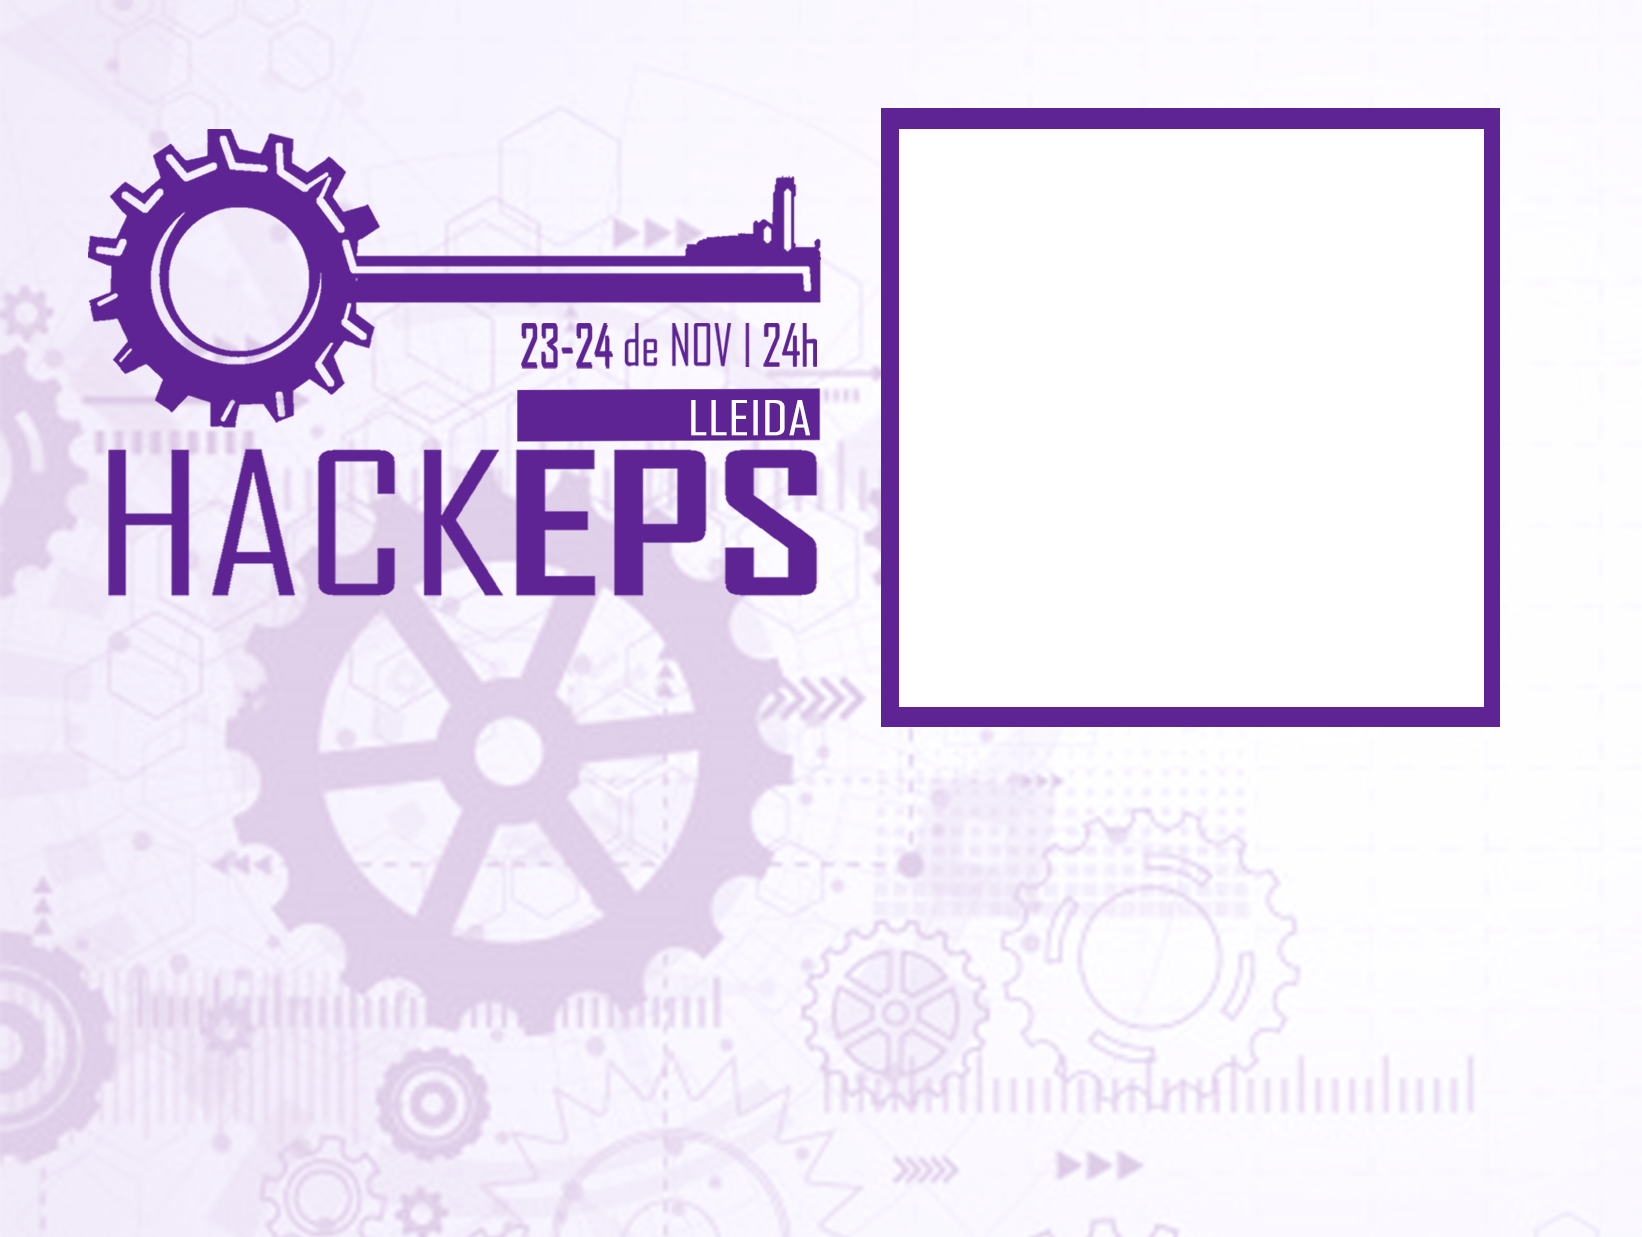
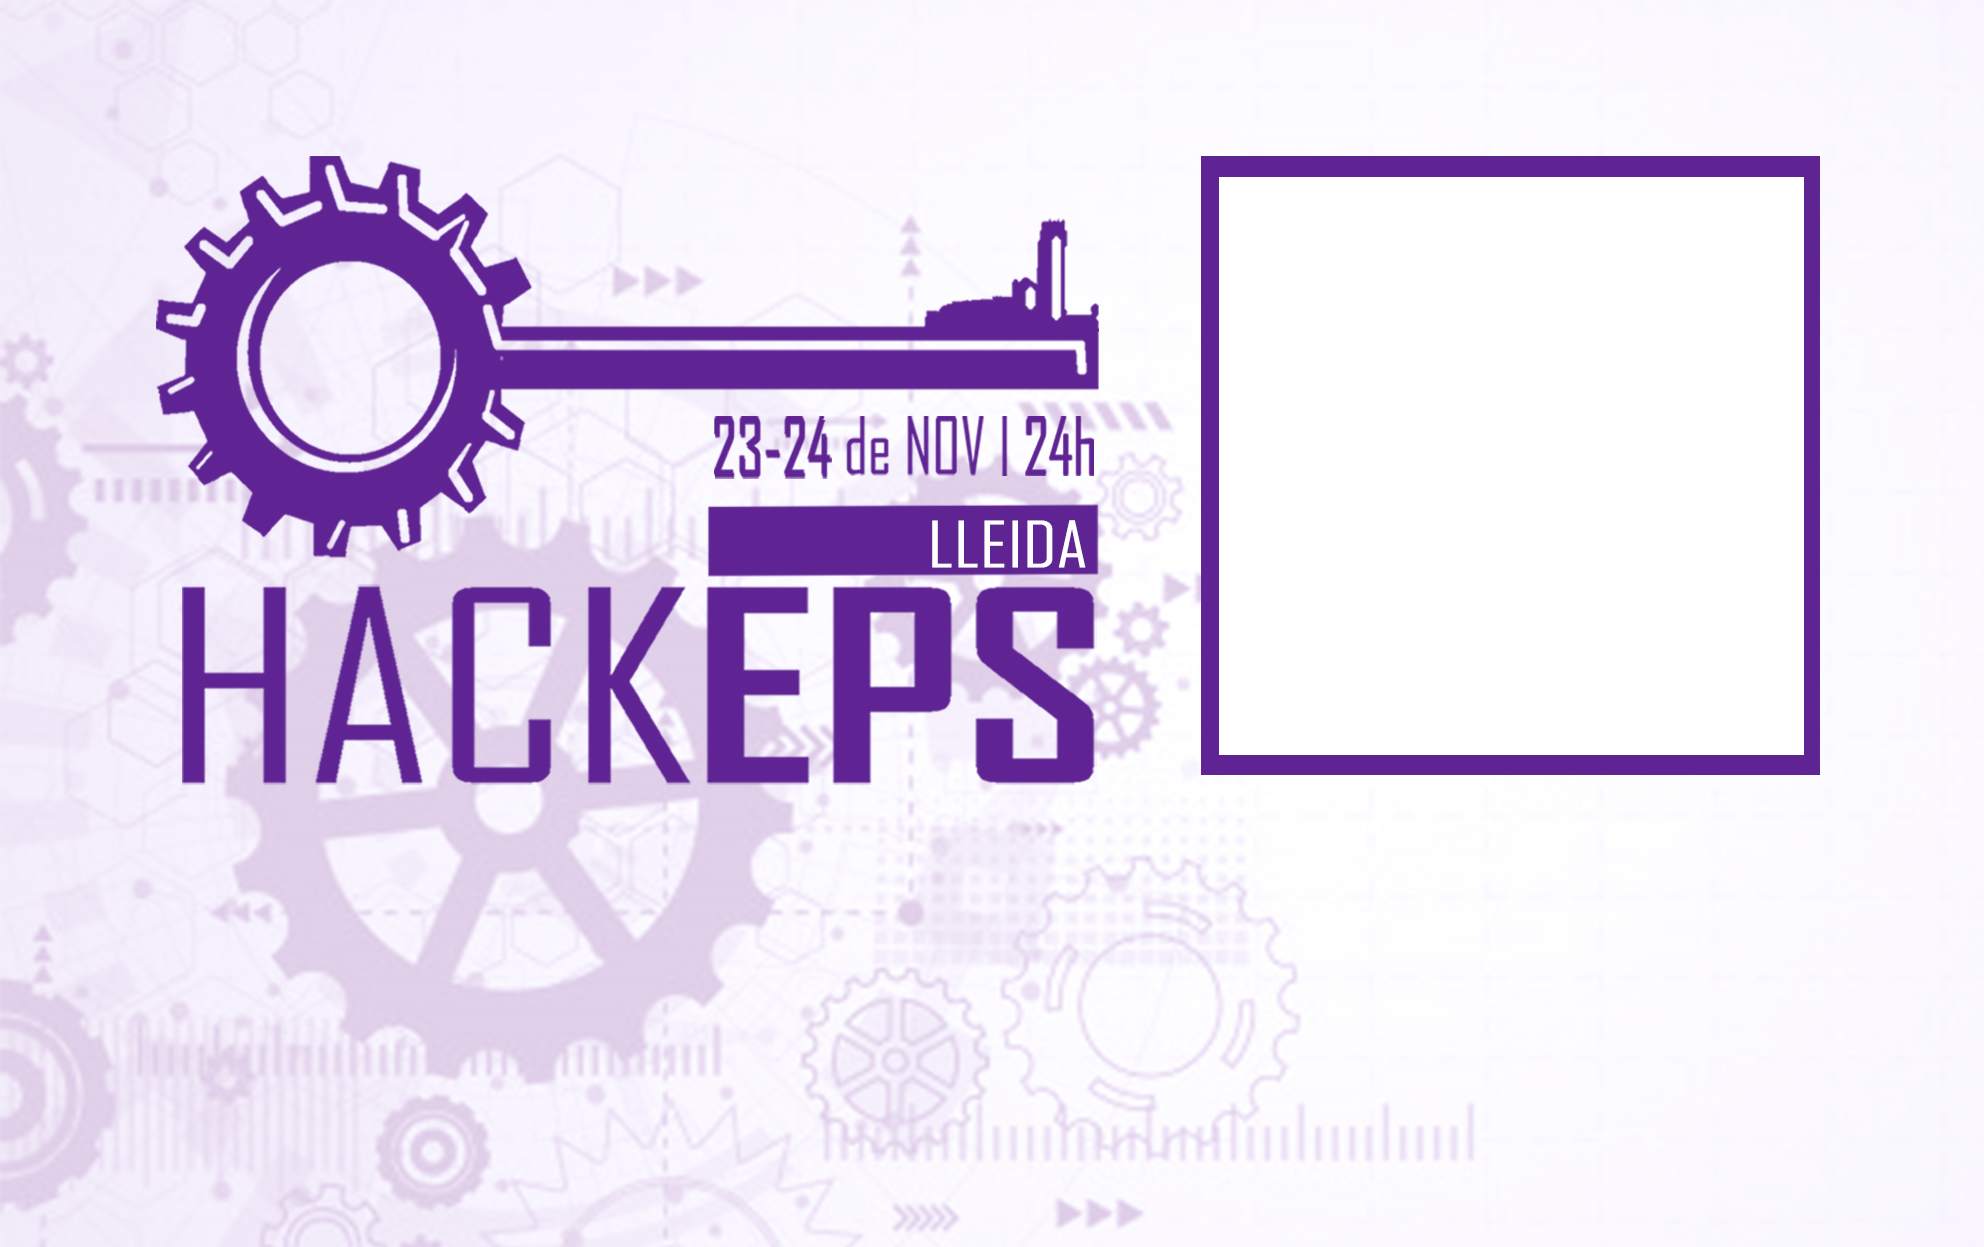
requeriments added, changing layout to adapt to real maesures

diff --git a/Model.py b/Model.py
@@ -9,12 +9,13 @@ import Tools
 
 
 class Card:
-	QR_POS = (894, 120)
-	QR_SIZE = 450
+	QR_POS = (1221, 176)
+	QR_PIX_SIZE = 1
+	QR_SIZE = (580, 580)
 	QR_BORDER_SIZE = 0
-	TYPE_POS = (894, 980)
-	NAME_POS = (894, 780)
-	NICK_POS = (894, 850)
+	TYPE_POS = (1198, 970)
+	NAME_POS = (1198, 800)
+	NICK_POS = (1198, 870)
 	LOGO_POS = (920, 250)
 	LOGO_SIZE = (550, 350)
 
@@ -36,7 +37,8 @@ class Assistant(object):
 		self.card.save(os.path.join(Constants.OUT_FOLDER, self.id + '.png'))
 
 	def generate_qr(self, crypt_id=False):
-		self.qr = Tools.generate_qr((self.id, Tools.crypt(self.id))[crypt_id], Card.QR_SIZE, Card.QR_BORDER_SIZE)
+		self.qr = Tools.generate_qr((self.id, Tools.crypt(self.id))[crypt_id], Card.QR_PIX_SIZE, Card.QR_BORDER_SIZE)
+		self.qr=Tools.scale(self.qr, Card.QR_SIZE,False)
 
 	def generate_card(self, rgb_back=(255, 255, 255)):
 		self.card = Image.open(os.path.join(Constants.RES_FOLDER, Constants.BAK_PATH))
@@ -57,8 +59,7 @@ class Guest(Assistant):
 		Guest.__ID += 1
 		self.has_qr = has_qr
 		if has_qr:
-			self.generate_qr()
-			self.qr = Tools.scale(self.qr, (594, 594), False)
+			self.generate_qr(True)
 
 	def generate_card(self, rgb_back=(255, 255, 255)):
 		super().generate_card(rgb_back)
@@ -91,8 +92,8 @@ class Company(Assistant):
 		super().generate_card(rgb_back)
 		Tools.draw_text(self.card, self.name, Card.NAME_POS)
 		image = Image.open(self.logopath).convert("RGBA")  # .resize((550,350), Image.ANTIALIAS)
-		image = Tools.scale(image, Card.LOGO_SIZE)
-		self.card.paste(image, Card.LOGO_POS)
+		image = Tools.scale(image, Card.QR_SIZE)
+		self.card.paste(image, Card.QR_POS)
 
 	@staticmethod
 	def get_data():
@@ -121,8 +122,8 @@ class Volunteer(Assistant):
 	def generate_card(self, rgb_back=(255, 255, 255)):
 		super().generate_card(rgb_back)
 		image = Image.open(Volunteer.__LOGO_PATH).convert("RGBA")
-		image = Tools.scale(image, Card.LOGO_SIZE)
-		self.card.paste(image, Card.LOGO_POS)
+		image = Tools.scale(image, Card.QR_SIZE)
+		self.card.paste(image, Card.QR_POS)
 		Tools.draw_text(self.card, self.name, Card.NAME_POS)
 
 	@staticmethod
@@ -149,8 +150,8 @@ class Organizer(Assistant):
 	def generate_card(self, rgb_back=(255, 255, 255)):
 		super().generate_card(rgb_back)
 		image = Image.open(Organizer.__LOGO_PATH).convert("RGBA")
-		image = Tools.scale(image, Card.LOGO_SIZE)
-		self.card.paste(image, Card.LOGO_POS)
+		image = Tools.scale(image, Card.QR_SIZE)
+		self.card.paste(image, Card.QR_POS)
 		Tools.draw_text(self.card, self.name, Card.NAME_POS)
 
 	@staticmethod
@@ -172,7 +173,6 @@ class Contestant(Assistant):
 		super().__init__(id, Contestant.__TYPE)
 
 		self.generate_qr()
-		self.qr = Tools.scale(self.qr, (594, 594), False)
 		self.name = data['fullName']
 		self.nick = '\"' + data['nickname'] + '\"'
 

diff --git a/main.py b/main.py
@@ -4,15 +4,15 @@ import Model
 import Tools
 users = []
 users += Model.Contestant.get_data(os.path.join(Constants.RES_FOLDER, Constants.DB_CERT))
-users += Model.Organizer.get_data()
-users += Model.Volunteer.get_data()
-users += Model.Company.get_data()
-users += Model.Guest.get_data()
+# users += Model.Organizer.get_data()
+# users += Model.Volunteer.get_data()
+# users += Model.Company.get_data()
+# users += Model.Guest.get_data()
 
-# Tools.create_dir(Constants.OUT_FOLDER)
-# Tools.empty_dir(Constants.OUT_FOLDER)
+Tools.create_dir(Constants.OUT_FOLDER)
+Tools.empty_dir(Constants.OUT_FOLDER)
 
 for u in users:
 	u.generate_card()
-	# u.show()
-	u.save()
+	# u.save()
+	u.show()

diff --git a/Tools.py b/Tools.py
@@ -58,7 +58,8 @@ def generate_qr(input, size, border_size):
 	qr = qrcode.QRCode(
 		version=1,
 		error_correction=qrcode.constants.ERROR_CORRECT_H,
-		box_size=int(size / 25),
+		# box_size=int(size / 25),
+		box_size=size,
 		border=border_size)
 	qr.add_data(input)
 	qr.make(fit=True)
